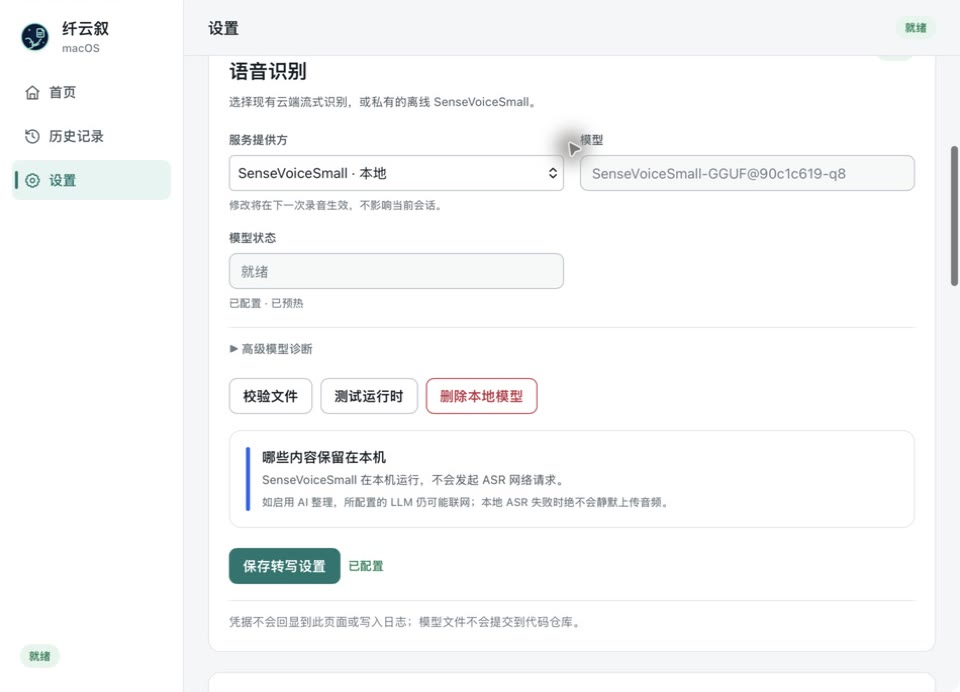
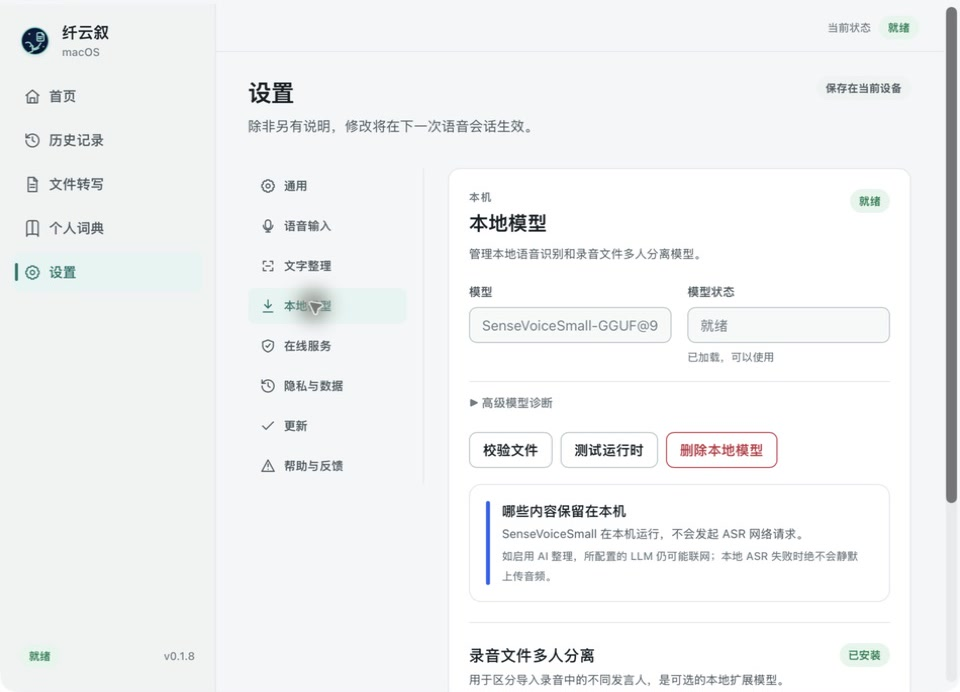
feat: publish XianYun v0.1.8 website update

diff --git a/src/content/changelog/current.md b/src/content/changelog/current.md
@@ -1,12 +1,13 @@
 ---
-title: 0.1.7 Beta
+title: 0.1.8 Beta
 status: beta
-publishedAt: 2026-07-29
+publishedAt: 2026-07-31
 ---
 
 ### 本次更新
 
-- 新增音频文件转写工作区，支持导入 WAV、MP3、M4A 和 FLAC，生成带时间信息的逐字稿。
-- 新增本地多人说话人分离，可自动估计或指定人数，并支持重命名、修正片段归属和带发言人导出。
-- 新增个人词典与本地确定性纠错，可维护正确词条并记住常见错误写法。
-- 文件转写、说话人分离和个人词典结果均保存在本机；云端文字整理仍由用户自行选择。
+- 重新整理主导航、设置和核心页面，常用功能更容易找到，界面风格也更统一。
+- 改进个人词典纠错：加强上下文和相似读音判断，并补充安全边界，减少不合适的自动替换。
+- 在线语音识别改为默认关闭；本地识别仍是默认选择，需要时再由用户主动开启在线服务。
+- 修复纠正词语面板可能被页面内容遮挡的问题，并统一弹窗、提示和键盘操作。
+- 简化帮助与反馈流程，诊断信息在本机脱敏生成，由用户确认后再自行发送。
